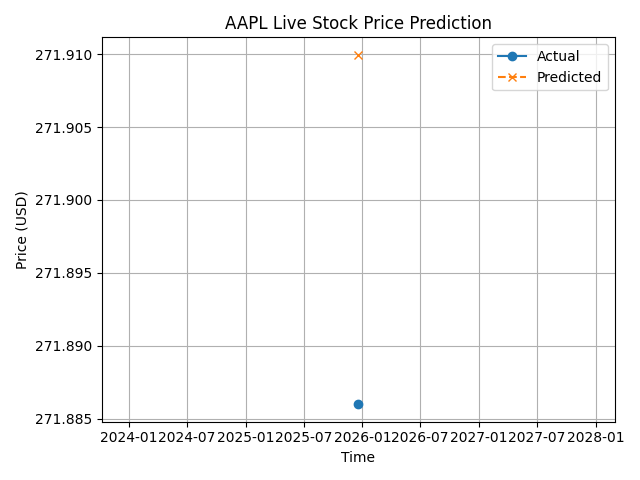
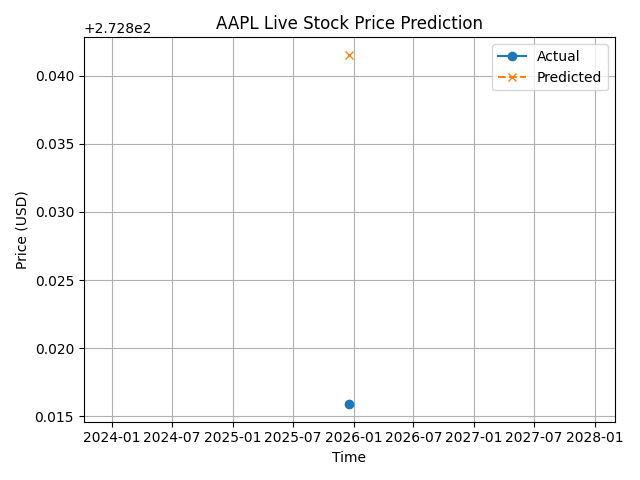
fixes

diff --git a/app/main.py b/app/main.py
@@ -1,21 +1,25 @@
 import time
+import os
+import pandas as pd
 import matplotlib
 matplotlib.use("Agg")  # ensure plotting works in Docker/headless
-
 import matplotlib.pyplot as plt
+
 from data import get_live_data, add_features
 from model import train_model
-import os
 
-# Make sure the output folder exists
-os.makedirs("/app/output", exist_ok=True)
-
+# ---------------------------
+# Configuration
+# ---------------------------
 TICKER = "AAPL"
-RETRAIN_EVERY = 30  # retrain model every 30 iterations
+RETRAIN_EVERY = 30  # retrain model every N iterations
+OUTPUT_DIR = "/app/output"
+os.makedirs(OUTPUT_DIR, exist_ok=True)  # Ensure output folder exists
 
+# ---------------------------
+# Initial model training
+# ---------------------------
 print("Training the model with historical data...")
-
-# Initial training
 historical = add_features(get_live_data(TICKER))
 model = train_model(historical)
 
@@ -25,34 +29,36 @@ actual_prices = []
 predicted_prices = []
 
 counter = 0
-
 print("Starting real-time predictions...\n")
 
+# ---------------------------
+# Main real-time loop
+# ---------------------------
 while True:
     try:
-        # Fetch latest data
+        # Fetch latest 1-minute data
         live_data = add_features(get_live_data(TICKER))
 
-        # skip if no new candle yet
+        # Skip iteration if no new candle
         if timestamps and live_data.index[-1] == timestamps[-1]:
             print("No new candle yet...")
             time.sleep(60)
             continue
 
-        # Extract features safely
+        # Extract latest features safely
         feature_cols = ["SMA_5", "SMA_20", "Volatility"]
         latest_features = live_data[feature_cols].iloc[-1].to_numpy(dtype=float)
 
-        # Last actual price
+        # Last actual closing price
         last_price = float(live_data["Close"].iloc[-1].item())
 
-        # Predict next return
+        # Predict next-period return
         predicted_return = model.predict([latest_features])[0]
 
-        # Convert return to price
+        # Convert return to predicted price
         predicted_price = last_price * (1 + predicted_return)
 
-        # Store for plotting
+        # Store values for plotting
         timestamps.append(live_data.index[-1])
         actual_prices.append(last_price)
         predicted_prices.append(predicted_price)
@@ -60,37 +66,52 @@ while True:
         # Print to console
         print(f"Last: ${last_price:.2f} | Predicted next: ${predicted_price:.2f}")
 
-        # ----- Plotting section -----
-        plt.figure(figsize=(14,6))  # bigger figure
-        plt.plot(timestamps, actual_prices, label="Actual", color="#1f77b4", linewidth=2)  # solid line
-        # dashed line for predictions; replace None with np.nan if needed
-        preds = [p if p is not None else float('nan') for p in predicted_prices]
-        plt.plot(timestamps, preds, label="Predicted", color="#ff7f0e", linestyle="--", linewidth=2)
+        # ---------------------------
+        # Plotting section
+        # ---------------------------
+        if timestamps:  # ensure we have data to plot
+            plt.figure(figsize=(14,6))
 
-        # Title, labels, grid
-        plt.title(f"{TICKER} Live Stock Price Prediction", fontsize=16, fontweight='bold')
-        plt.xlabel("Time")
-        plt.ylabel("Price (USD)")
-        plt.grid(True, linestyle='--', linewidth=0.5)
-        plt.xticks(rotation=45)
+            # Create DataFrame for plotting
+            df_plot = pd.DataFrame({
+                "Actual": actual_prices,
+                "Predicted": predicted_prices
+            }, index=pd.to_datetime(timestamps))
 
-        # Dynamic y-axis
-        all_prices = [p for p in actual_prices + [p for p in predicted_prices if p is not None]]
-        plt.ylim(min(all_prices)*0.995, max(all_prices)*1.005)
+            # Resample monthly: take last value in each month
+            df_monthly = df_plot.resample('M').last()
 
-        plt.legend()
-        plt.tight_layout()
-        plt.savefig("/app/output/live_stock_plot.png")
-        plt.close()  # prevent memory leaks
+            # Plot actual vs predicted
+            plt.plot(df_monthly.index, df_monthly["Actual"], label="Actual", color="#1f77b4", linewidth=2)
+            plt.plot(df_monthly.index, df_monthly["Predicted"], label="Predicted", color="#ff7f0e", linestyle="--", linewidth=2)
 
+            # Title, labels, grid
+            plt.title(f"{TICKER} Live Stock Price Prediction", fontsize=16, fontweight='bold')
+            plt.xlabel("Time")
+            plt.ylabel("Price (USD)")
+            plt.grid(True, linestyle='--', linewidth=0.5)
+            plt.xticks(rotation=45)
+
+            # Dynamic y-axis
+            all_prices = df_monthly["Actual"].tolist() + df_monthly["Predicted"].dropna().tolist()
+            if all_prices:
+                plt.ylim(min(all_prices)*0.995, max(all_prices)*1.005)
+
+            plt.legend()
+            plt.tight_layout()
+            plt.savefig(os.path.join(OUTPUT_DIR, "live_stock_plot.png"))
+            plt.close()  # prevent memory leaks
+
+        # ---------------------------
         # Retrain model periodically
+        # ---------------------------
         counter += 1
         if counter % RETRAIN_EVERY == 0:
             print("Retraining model with latest data...")
             historical = add_features(get_live_data(TICKER))
             model = train_model(historical)
 
-        # Wait before next poll
+        # Wait before next iteration
         time.sleep(60)
 
     except Exception as e:

diff --git a/app/data.py b/app/data.py
@@ -3,7 +3,7 @@ import pandas as pd
 
 def get_live_data(ticker):
     """
-    Fetch most recent 1-day, 1-minute stock data
+    Fetch most recent 1-day, 1-minute stock data from Yahoo Finance
     """
     df = yf.download(
         ticker,
@@ -13,28 +13,37 @@ def get_live_data(ticker):
         progress=False
     )
 
+    # Raise error if no data returned
+    if df.empty:
+        raise ValueError(f"No data fetched for {ticker}")
+
+    # Keep only relevant columns
     df = df[["Open", "High", "Low", "Close", "Volume"]]
     df.dropna(inplace=True)
-
+    df.sort_index(inplace=True)  # Ensure datetime order
     return df
 
 
 def add_features(df):
     """
-    Add technical indicators for the model
+    Add technical indicators for the model:
+      - Return: next-period percentage change
+      - SMA_5 and SMA_20: simple moving averages
+      - Volatility: 10-period rolling standard deviation of returns
     """
     df = df.copy()
 
-    # Returns
+    # Compute returns
     df["Return"] = df["Close"].pct_change()
 
-    # Moving averages
+    # Simple moving averages
     df["SMA_5"] = df["Close"].rolling(5).mean()
     df["SMA_20"] = df["Close"].rolling(20).mean()
 
-    # Volatility
+    # Volatility (std of returns over last 10 periods)
     df["Volatility"] = df["Return"].rolling(10).std()
 
+    # Drop rows with NaN values (from rolling calculations)
     df.dropna(inplace=True)
 
     return df

diff --git a/app/model.py b/app/model.py
@@ -2,24 +2,26 @@ from sklearn.ensemble import RandomForestRegressor
 
 def train_model(df):
     """
-    Train a Random Forest model to predict next-period returns
+    Train a Random Forest model to predict next-period returns.
+    Uses SMA_5, SMA_20, Volatility as features.
     """
-
     feature_cols = ["SMA_5", "SMA_20", "Volatility"]
 
-    # Features
+    # Features (exclude last row as its target is unknown)
     X = df[feature_cols].iloc[:-1].values
 
-    # Target: next-period return
-    y = df["Return"].shift(-1).dropna().values
+    # Target: next-period return (aligned with features)
+    y = df["Return"].shift(-1).iloc[:-1].values
 
-    # Random Forest Regressor
+    # Initialize Random Forest Regressor
     model = RandomForestRegressor(
         n_estimators=200,
         random_state=42,
         n_jobs=-1
     )
 
+    # Fit model
     model.fit(X, y)
 
     return model
+
